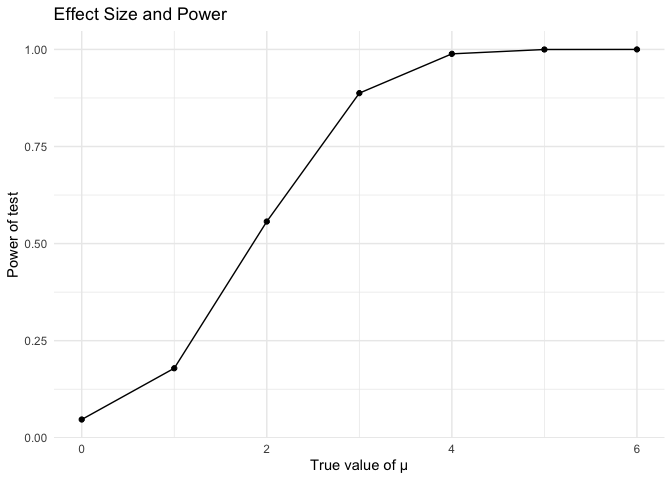
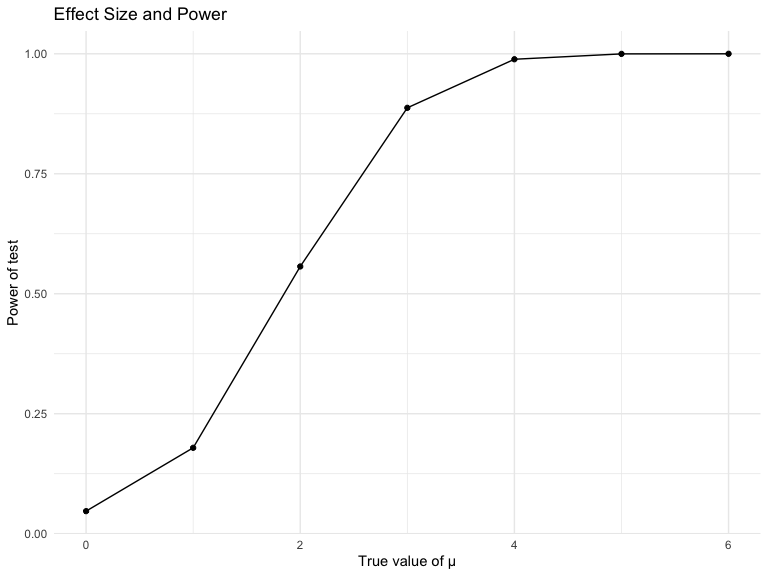
Partial completion of problem 3

diff --git a/p8105_Homework5.md b/p8105_Homework5.md
@@ -37,7 +37,7 @@ sim_res |>
   geom_line()
 ```
 
-![](p8105_Homework5_files/figure-gfm/unnamed-chunk-2-1.png)<!-- -->
+<img src="p8105_Homework5_files/figure-gfm/unnamed-chunk-2-1.png" width="90%" />
 
 The plot shows that the probability of at least two people sharing a
 birthday increases steadily as the group size grows. At around the
@@ -111,7 +111,7 @@ power_plot =
 power_plot
 ```
 
-![](p8105_Homework5_files/figure-gfm/unnamed-chunk-4-1.png)<!-- -->
+<img src="p8105_Homework5_files/figure-gfm/unnamed-chunk-4-1.png" width="90%" />
 
 ``` r
 estimates_plot = 
@@ -131,7 +131,7 @@ estimates_plot =
 estimates_plot
 ```
 
-![](p8105_Homework5_files/figure-gfm/unnamed-chunk-5-1.png)<!-- -->
+<img src="p8105_Homework5_files/figure-gfm/unnamed-chunk-5-1.png" width="90%" />
 
 There is a clear association between effect size and power. When the
 true value of mu is small, the test has low power, meaning there is a
@@ -144,3 +144,228 @@ detecting a false null hypothesis at these larger effect sizes.
 
 The sample average of mu^hat across tests for which the null is rejected
 is not exactly equal to the true value of mu.
+
+# Problem 3. Homicide Rates Across U.S. Cities
+
+``` r
+url = "https://raw.githubusercontent.com/washingtonpost/data-homicides/refs/heads/master/homicide-data.csv"
+
+homi_data = read_csv(url)
+```
+
+    ## Rows: 52179 Columns: 12
+    ## ── Column specification ────────────────────────────────────────────────────────
+    ## Delimiter: ","
+    ## chr (9): uid, victim_last, victim_first, victim_race, victim_age, victim_sex...
+    ## dbl (3): reported_date, lat, lon
+    ## 
+    ## ℹ Use `spec()` to retrieve the full column specification for this data.
+    ## ℹ Specify the column types or set `show_col_types = FALSE` to quiet this message.
+
+``` r
+homi_data2 = homi_data |> 
+  janitor::clean_names() |> 
+  mutate(
+    city_state = str_c(city, ", ", state)
+  )
+
+total_vs_unsolve = homi_data2 |> 
+    group_by(city_state) |> 
+  summarize(
+    Total_homicides = n(),
+    Unsolved_homicides = sum(disposition %in% c("Closed without arrest", "Open/No arrest"))
+  )
+
+knitr::kable(total_vs_unsolve, caption = "Total and Unsolved Homicides Across U.S. Cities")
+```
+
+| city_state         | Total_homicides | Unsolved_homicides |
+|:-------------------|----------------:|-------------------:|
+| Albuquerque, NM    |             378 |                146 |
+| Atlanta, GA        |             973 |                373 |
+| Baltimore, MD      |            2827 |               1825 |
+| Baton Rouge, LA    |             424 |                196 |
+| Birmingham, AL     |             800 |                347 |
+| Boston, MA         |             614 |                310 |
+| Buffalo, NY        |             521 |                319 |
+| Charlotte, NC      |             687 |                206 |
+| Chicago, IL        |            5535 |               4073 |
+| Cincinnati, OH     |             694 |                309 |
+| Columbus, OH       |            1084 |                575 |
+| Dallas, TX         |            1567 |                754 |
+| Denver, CO         |             312 |                169 |
+| Detroit, MI        |            2519 |               1482 |
+| Durham, NC         |             276 |                101 |
+| Fort Worth, TX     |             549 |                255 |
+| Fresno, CA         |             487 |                169 |
+| Houston, TX        |            2942 |               1493 |
+| Indianapolis, IN   |            1322 |                594 |
+| Jacksonville, FL   |            1168 |                597 |
+| Kansas City, MO    |            1190 |                486 |
+| Las Vegas, NV      |            1381 |                572 |
+| Long Beach, CA     |             378 |                156 |
+| Los Angeles, CA    |            2257 |               1106 |
+| Louisville, KY     |             576 |                261 |
+| Memphis, TN        |            1514 |                483 |
+| Miami, FL          |             744 |                450 |
+| Milwaukee, wI      |            1115 |                403 |
+| Minneapolis, MN    |             366 |                187 |
+| Nashville, TN      |             767 |                278 |
+| New Orleans, LA    |            1434 |                930 |
+| New York, NY       |             627 |                243 |
+| Oakland, CA        |             947 |                508 |
+| Oklahoma City, OK  |             672 |                326 |
+| Omaha, NE          |             409 |                169 |
+| Philadelphia, PA   |            3037 |               1360 |
+| Phoenix, AZ        |             914 |                504 |
+| Pittsburgh, PA     |             631 |                337 |
+| Richmond, VA       |             429 |                113 |
+| Sacramento, CA     |             376 |                139 |
+| San Antonio, TX    |             833 |                357 |
+| San Bernardino, CA |             275 |                170 |
+| San Diego, CA      |             461 |                175 |
+| San Francisco, CA  |             663 |                336 |
+| Savannah, GA       |             246 |                115 |
+| St. Louis, MO      |            1677 |                905 |
+| Stockton, CA       |             444 |                266 |
+| Tampa, FL          |             208 |                 95 |
+| Tulsa, AL          |               1 |                  0 |
+| Tulsa, OK          |             583 |                193 |
+| Washington, DC     |            1345 |                589 |
+
+Total and Unsolved Homicides Across U.S. Cities
+
+The raw data contains 12 variables, which are uid, reported_date,
+victim_last, victim_first, victim_race, victim_age, victim_sex, city,
+state, lat, lon, disposition, and 52179 observations.
+
+``` r
+Bal_MD_prop = homi_data2 |> 
+  filter(city_state == "Baltimore, MD") |> 
+  summarize(
+    Total_Homicides_in_Baltimore_MD = n(),
+    Unsolved_Homicides_in_Baltimore_MD = sum(disposition %in% c("Closed without arrest", "Open/No arrest"))
+  )
+
+knitr::kable(Bal_MD_prop)
+```
+
+| Total_Homicides_in_Baltimore_MD | Unsolved_Homicides_in_Baltimore_MD |
+|--------------------------------:|-----------------------------------:|
+|                            2827 |                               1825 |
+
+``` r
+Bal_MD_prop_res = prop.test(Bal_MD_prop$Unsolved_Homicides_in_Baltimore_MD, Bal_MD_prop$Total_Homicides_in_Baltimore_MD) |> 
+  broom::tidy() |> 
+  select(estimate,conf.low, conf.high)
+
+knitr::kable(Bal_MD_prop_res, caption = "Proportion of Unsolved Homicides in Baltimore, MD")
+```
+
+|  estimate |  conf.low | conf.high |
+|----------:|----------:|----------:|
+| 0.6455607 | 0.6275625 | 0.6631599 |
+
+Proportion of Unsolved Homicides in Baltimore, MD
+
+``` r
+homicide_rate_by_cities = function(city_name) {
+  
+  city = homi_data2 |> 
+    filter(city_state == city_name) |> 
+  summarize(
+    Total_Homicides = n(),
+    Unsolved_Homicides = sum(disposition %in% c("Closed without arrest", "Open/No arrest"))
+  )
+  
+  prop_res = prop.test(city$Unsolved_Homicides, city$Total_Homicides) |> 
+    broom::tidy() |> 
+    select(estimate,conf.low, conf.high)
+  
+  return(prop_res)
+}
+
+all_cities_states = unique(homi_data2$city_state)
+
+homi_summary = tibble(
+  city_state = all_cities_states,
+  res = map(all_cities_states, homicide_rate_by_cities)
+) |> 
+  unnest(res)
+
+knitr::kable(homi_summary, caption = "Proportion of Unsolved Homicides Across U.S. Cities")
+```
+
+| city_state         |  estimate |  conf.low | conf.high |
+|:-------------------|----------:|----------:|----------:|
+| Albuquerque, NM    | 0.3862434 | 0.3372604 | 0.4375766 |
+| Atlanta, GA        | 0.3833505 | 0.3528119 | 0.4148219 |
+| Baltimore, MD      | 0.6455607 | 0.6275625 | 0.6631599 |
+| Baton Rouge, LA    | 0.4622642 | 0.4141987 | 0.5110240 |
+| Birmingham, AL     | 0.4337500 | 0.3991889 | 0.4689557 |
+| Boston, MA         | 0.5048860 | 0.4646219 | 0.5450881 |
+| Buffalo, NY        | 0.6122841 | 0.5687990 | 0.6540879 |
+| Charlotte, NC      | 0.2998544 | 0.2660820 | 0.3358999 |
+| Chicago, IL        | 0.7358627 | 0.7239959 | 0.7473998 |
+| Cincinnati, OH     | 0.4452450 | 0.4079606 | 0.4831439 |
+| Columbus, OH       | 0.5304428 | 0.5002167 | 0.5604506 |
+| Dallas, TX         | 0.4811742 | 0.4561942 | 0.5062475 |
+| Denver, CO         | 0.5416667 | 0.4846098 | 0.5976807 |
+| Detroit, MI        | 0.5883287 | 0.5687903 | 0.6075953 |
+| Durham, NC         | 0.3659420 | 0.3095874 | 0.4260936 |
+| Fort Worth, TX     | 0.4644809 | 0.4222542 | 0.5072119 |
+| Fresno, CA         | 0.3470226 | 0.3051013 | 0.3913963 |
+| Houston, TX        | 0.5074779 | 0.4892447 | 0.5256914 |
+| Indianapolis, IN   | 0.4493192 | 0.4223156 | 0.4766207 |
+| Jacksonville, FL   | 0.5111301 | 0.4820460 | 0.5401402 |
+| Kansas City, MO    | 0.4084034 | 0.3803996 | 0.4370054 |
+| Las Vegas, NV      | 0.4141926 | 0.3881284 | 0.4407395 |
+| Long Beach, CA     | 0.4126984 | 0.3629026 | 0.4642973 |
+| Los Angeles, CA    | 0.4900310 | 0.4692208 | 0.5108754 |
+| Louisville, KY     | 0.4531250 | 0.4120609 | 0.4948235 |
+| Memphis, TN        | 0.3190225 | 0.2957047 | 0.3432691 |
+| Miami, FL          | 0.6048387 | 0.5685783 | 0.6400015 |
+| Milwaukee, wI      | 0.3614350 | 0.3333172 | 0.3905194 |
+| Minneapolis, MN    | 0.5109290 | 0.4585150 | 0.5631099 |
+| Nashville, TN      | 0.3624511 | 0.3285592 | 0.3977401 |
+| New Orleans, LA    | 0.6485356 | 0.6231048 | 0.6731615 |
+| New York, NY       | 0.3875598 | 0.3494421 | 0.4270755 |
+| Oakland, CA        | 0.5364308 | 0.5040588 | 0.5685037 |
+| Oklahoma City, OK  | 0.4851190 | 0.4467861 | 0.5236245 |
+| Omaha, NE          | 0.4132029 | 0.3653146 | 0.4627477 |
+| Philadelphia, PA   | 0.4478103 | 0.4300380 | 0.4657157 |
+| Phoenix, AZ        | 0.5514223 | 0.5184825 | 0.5839244 |
+| Pittsburgh, PA     | 0.5340729 | 0.4942706 | 0.5734545 |
+| Richmond, VA       | 0.2634033 | 0.2228571 | 0.3082658 |
+| San Antonio, TX    | 0.4285714 | 0.3947772 | 0.4630331 |
+| Sacramento, CA     | 0.3696809 | 0.3211559 | 0.4209131 |
+| Savannah, GA       | 0.4674797 | 0.4041252 | 0.5318665 |
+| San Bernardino, CA | 0.6181818 | 0.5576628 | 0.6753422 |
+| San Diego, CA      | 0.3796095 | 0.3354259 | 0.4258315 |
+| San Francisco, CA  | 0.5067873 | 0.4680516 | 0.5454433 |
+| St. Louis, MO      | 0.5396541 | 0.5154369 | 0.5636879 |
+| Stockton, CA       | 0.5990991 | 0.5517145 | 0.6447418 |
+| Tampa, FL          | 0.4567308 | 0.3881009 | 0.5269851 |
+| Tulsa, OK          | 0.3310463 | 0.2932349 | 0.3711192 |
+| Tulsa, AL          | 0.0000000 | 0.0000000 | 0.9453792 |
+| Washington, DC     | 0.4379182 | 0.4112495 | 0.4649455 |
+
+Proportion of Unsolved Homicides Across U.S. Cities
+
+``` r
+homi_rate_plot = 
+  ggplot(homi_summary, aes(x = city_state, y = estimate)) +
+  geom_point() +
+  geom_errorbar(aes(ymin = conf.low, ymax = conf.high)) +
+  labs(
+    title = "Proportion of Unsolved Homicides by City",
+    x = "City, State",
+    y = "Estimated Proportion of Unsolved Homicides"
+  ) +
+  coord_flip() +
+  theme_minimal()
+
+homi_rate_plot
+```
+
+<img src="p8105_Homework5_files/figure-gfm/unnamed-chunk-9-1.png" width="90%" />
